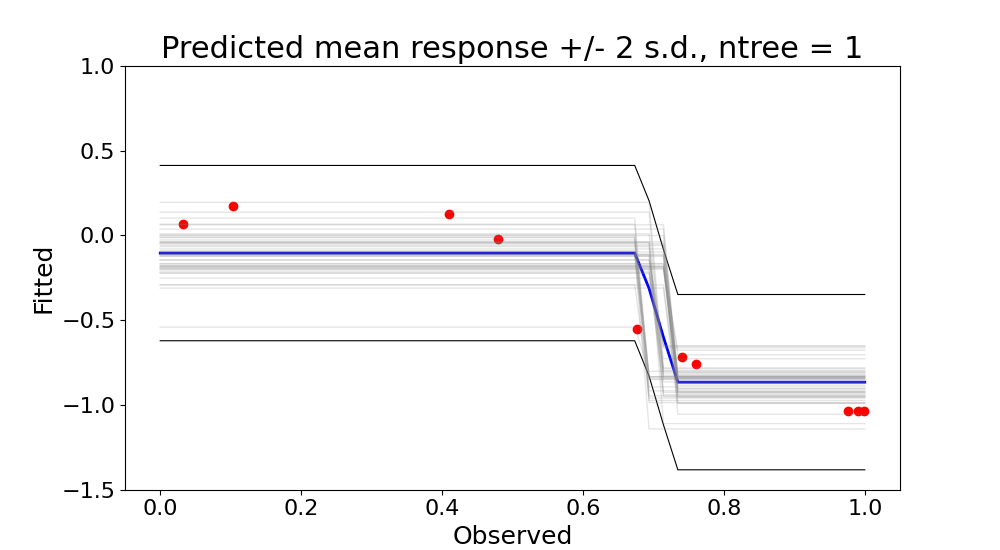
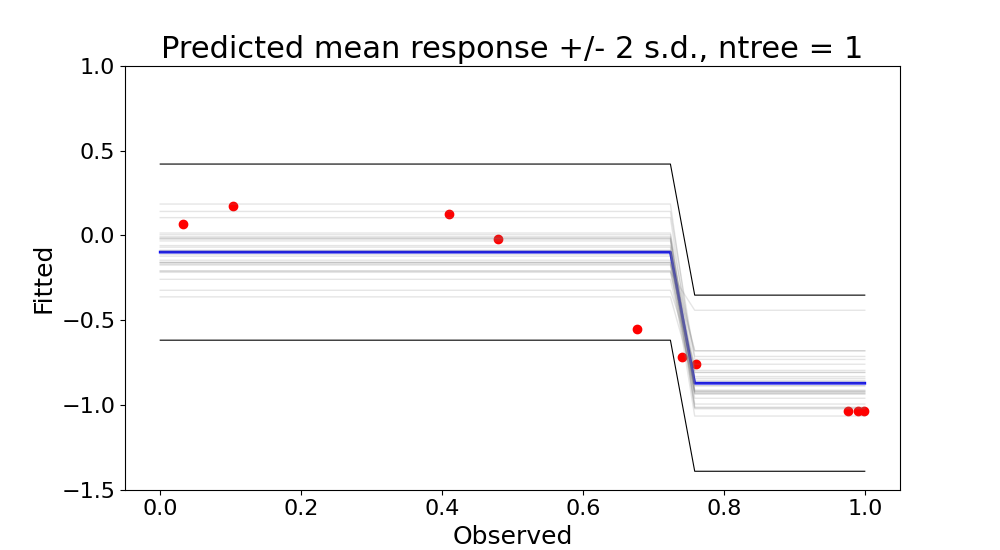
Small breakthrough on the vartivity function (it now runs the subprocess), but the rest is very much still under construction

diff --git a/PyScripts/Stat 8810 Examples/Stat 8810 Slides 11 for Testing config.py b/PyScripts/Stat 8810 Examples/Stat 8810 Slides 11 for Testing config.py
@@ -86,18 +86,18 @@ k = 2 # lower k --> more fitting, I think
 # Tree prior
 alpha = 0.95 # Default = 0.95
 beta = 2 # Default = 2
-nc = 50 # (AKA numcut); Default = 100
+nc = 10 # (AKA numcut); Default = 100
 
 # MCMC settings
-N = 500 # (AKA ndpost); Default = 1000
-burn = 50 # (AKA nskip); Default = 100
-nadapt = 500 # Default = 1000
+N = 400 # (AKA ndpost); Default = 1000
+burn = 10 # (AKA nskip); Default = 100
+nadapt = 400 # Default = 1000
 tc = 4 # Default = 2
 ntree = 1 # (AKA m); Default = 1
 ntreeh = 1 # Default = 1
 
 # For plotting:
-npreds = 50 # Default = 100
+npreds = 30 # Default = 100
 fig = plt.figure(figsize=(10,5.5))
 plt.rcParams['axes.labelsize'] = 18; plt.rcParams['axes.titlesize'] = 22;
 plt.rcParams['xtick.labelsize'] = 16; plt.rcParams['ytick.labelsize'] = 16;
@@ -141,8 +141,12 @@ def fit_pipeline(design, y, model, ndpost, nskip, power, base, tc, numcut, ntree
                npreds=npreds, fig=fig, path=path, fname=fname)
 # plt.clf()
 
+fitv = m.vartivity()
+
+
+
 """
-# Old way to get mmean(s) and smean(s):
+# Archive (just in case): Old way to get mmean(s) and smean(s):
      mtemp = np.empty(npreds) # temp array to get mmean; this is also = fitp
      stemp = np.empty(npreds) # temp array to get smean
      for i in range(npreds):
